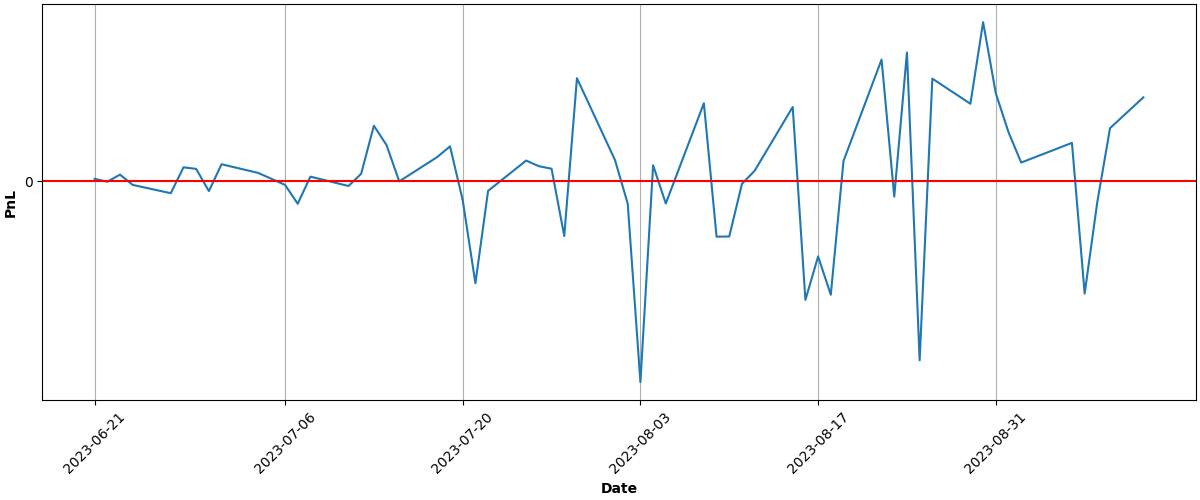
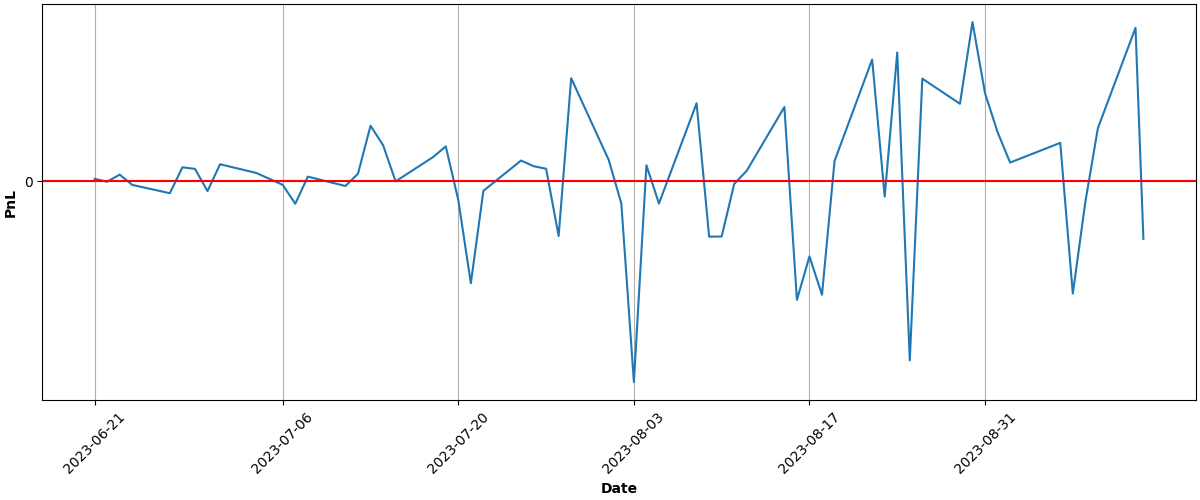
Automated Buy At Tue Sep 12 15:04:24 UTC 2023 Run ID 6161312320

diff --git a/README.md b/README.md
@@ -68,9 +68,9 @@ Results
 
 | Asset | Average Price | Current Price | ROI | 📈 |
 | --- | --- | --- | --- | --- |
-| FNGU | $182.196583046 | $184.7896 | 1.42% | &#128994;&#128515; |
-| SVIX | $28.031733333 | $31.7201 | 13.16% | &#128994;&#128515; |
-| **Total** |  |  | **7.63%** | &#128994;&#128518; |
+| FNGU | $182.248332045 | $185.3883 | 1.72% | &#128994;&#128515; |
+| SVIX | $28.031733333 | $31.81 | 13.48% | &#128994;&#128515; |
+| **Total** |  |  | **7.89%** | &#128994;&#128518; |
 
 ### PnL over time (calculations may not be accurate):
 
@@ -81,6 +81,6 @@ Results
 ---
 
 
-Updated at 2023-09-11 15:05:16
+Updated at 2023-09-12 15:04:43
 
 
